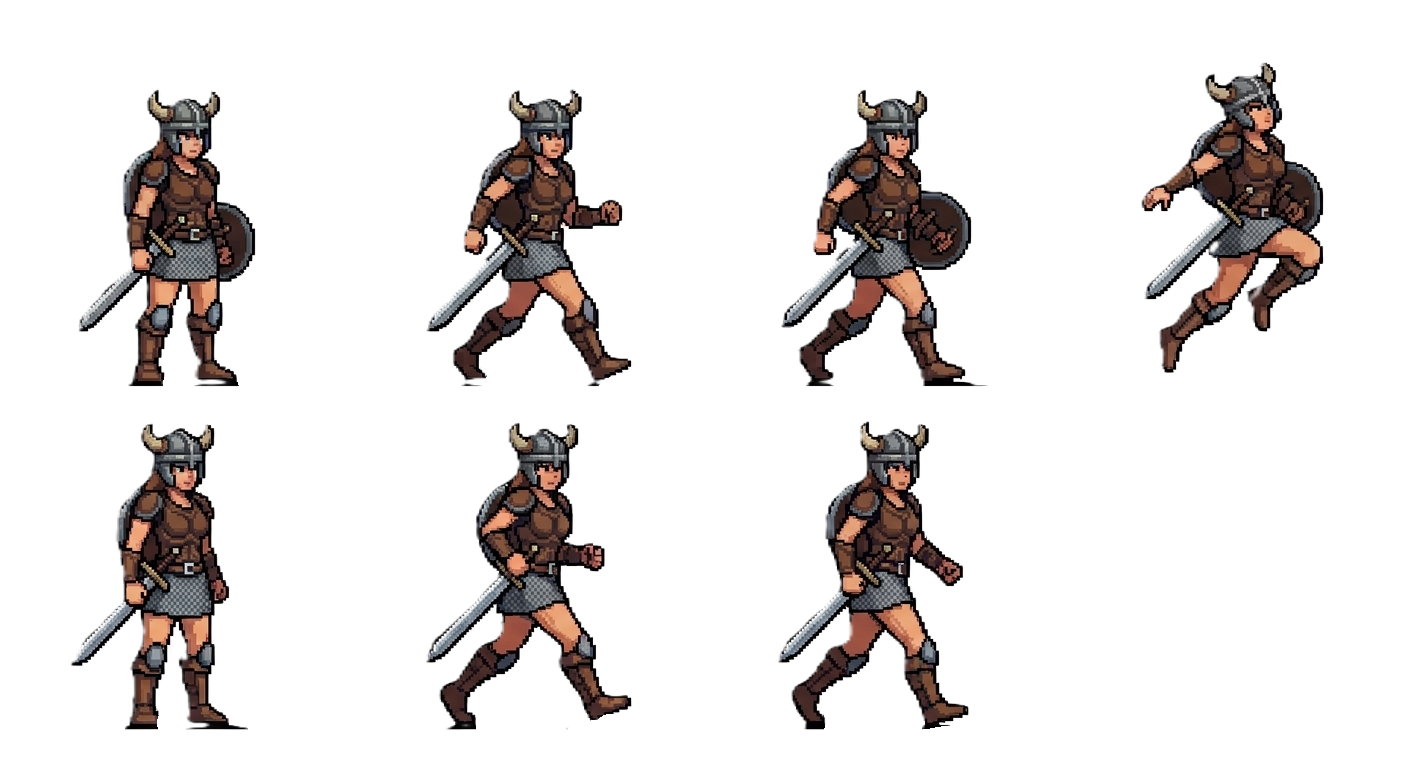
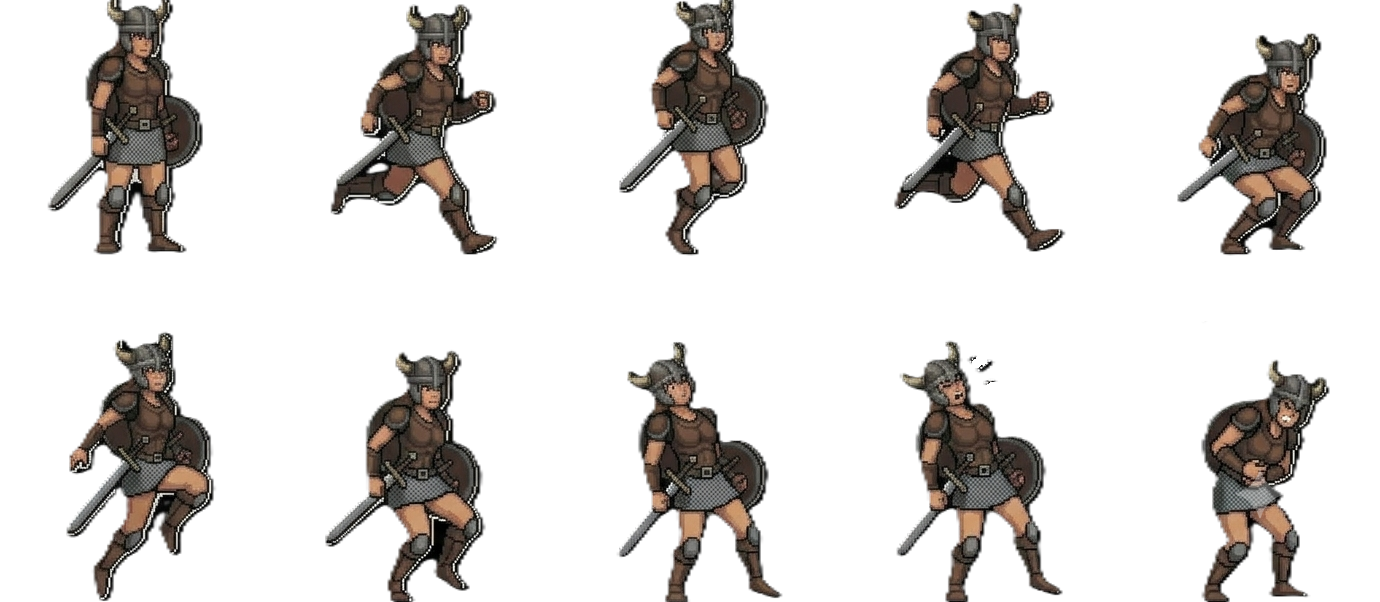
arrumando as sprites, e add efeito de dano

diff --git a/ava_jogo.py b/ava_jogo.py
@@ -112,36 +112,53 @@ def confBordas(objeto, rebater=False):
 
 #classe player
 class Player(arcade.Sprite):
+   # 3. Inicializa o Sprite com a primeira textura da lista (quadro 0)
     def __init__(self):
-        sheet = arcade.load_spritesheet("AnaGabriele.png")
-        quadros = sheet.get_texture_grid(
-            size=(332, 397),
-            columns=4,
-            count=8,
+        # 1. Carregar a folha de sprites
+        sheet_direita = arcade.load_spritesheet("Ana.png")
+
+        # 2. Extrair a grelha de texturas (10 quadros no total: 2 linhas, 5 colunas)
+        quadros = sheet_direita.get_texture_grid(
+            size=(199, 500),
+            columns=5,
+            count=10
         )
 
-        quadros_direita = quadros[:4]
-        quadros_esquerda = [frame.flip_left_right() for frame in quadros_direita]
+        # 3. Criar a lista de texturas invertidas para a esquerda
+        quadros_esquerda = []
+        for frame in quadros:
+            quadros_esquerda.append(frame.flip_left_right())
+        
+        # 4. Inicializar o sprite com a primeira textura (parado)
+        super().__init__(quadros[0], scale=0.3)
 
-        super().__init__(scale=0.2)
+        # 5. Mapeamento das poses para a direita e esquerda
+        self.texture_parado_d = quadros[0]
 
-        self.gravidade = GRAVIDADE
 
-        self.texture_parado_d = quadros_direita[0]
         self.texture_parado_e = quadros_esquerda[0]
-        self.texture_parado = self.texture_parado_d
+        self.passos_dano_d = [quadros[7], quadros[8], quadros[9]]
+        self.passos_dano_e = [quadros_esquerda[7], quadros_esquerda[8], quadros_esquerda[9]]
+        
+        self.tomando_dano: bool = False
+        self.tempo_dano: float = 0.0
+        # Passos (utiliza os quadros 1, 2 e 3 da primeira linha)
+        self.passos_direita = [quadros[1], quadros[2], quadros[3]]
+        self.passos_esquerda = [quadros_esquerda[1], quadros_esquerda[2], quadros_esquerda[3]]
 
-        self.passos_direita = quadros_direita[1:]
-        self.passos_esquerda = quadros_esquerda[1:]
+        # Pulo (utiliza o primeiro quadro da segunda linha, índice 5)
+        self.texture_pulo_d = quadros[5]
+        self.texture_pulo_e = quadros_esquerda[5]
 
-        self.texture_pulo_d = quadros_direita[-1]
-        self.texture_pulo_e = quadros_esquerda[-1]
-
+        # 6. Controladores de estado e animação
         self.quadro_atual: int = 0
         self.tempo_animacao: float = 0.0
         self.virado_para: str = "Direita"
         self.texture = self.texture_parado_d
-
+    def sofrer_dano(self):
+        self.tomando_dano = True
+        self.tempo_dano = 0.5  # Tempo em segundos que fica exibindo o dano
+        self.quadro_atual = 0
     def update(self, delta_time):
         if self.change_x > 0:
             self.virado_para = "Direita"
@@ -150,6 +167,7 @@ class Player(arcade.Sprite):
 
         confBordas(self, rebater=False)
 
+        # Se estiver a saltar (movimento vertical)
         if self.change_y != 0:
             if self.virado_para == "Direita":
                 self.texture = self.texture_pulo_d
@@ -157,17 +175,42 @@ class Player(arcade.Sprite):
                 self.texture = self.texture_pulo_e
             return
 
+        # Se estiver a andar horizontalmente
         if self.change_x != 0:
-            frames = self.passos_direita if self.virado_para == "Direita" else self.passos_esquerda
             self.tempo_animacao += delta_time
-            if self.tempo_animacao >= 0.12:
+            if self.tempo_animacao >= 0.1:
                 self.tempo_animacao = 0.0
-                self.quadro_atual = (self.quadro_atual + 1) % len(frames)
-            self.texture = frames[self.quadro_atual]
-            self.texture_parado = self.texture_parado_d if self.virado_para == "Direita" else self.texture_parado_e
+                self.quadro_atual = (self.quadro_atual + 1) % len(self.passos_direita)
+
+            if self.virado_para == "Direita":
+                self.texture = self.passos_direita[self.quadro_atual]
+            else:
+                self.texture = self.passos_esquerda[self.quadro_atual]
         else:
-            self.texture_parado = self.texture_parado_d if self.virado_para == "Direita" else self.texture_parado_e
-            self.texture = self.texture_parado
+            # Parado
+            self.quadro_atual = 0
+            self.tempo_animacao = 0.0
+            if self.virado_para == "Direita":
+                self.texture = self.texture_parado_d
+            else:
+                self.texture = self.texture_parado_e
+        if self.tomando_dano:
+            self.tempo_dano -= delta_time
+            if self.tempo_dano <= 0:
+                self.tomando_dano = False
+            
+            # Anima os quadros de dano rapidamente
+            self.tempo_animacao += delta_time
+            if self.tempo_animacao >= 0.1:
+                self.tempo_animacao = 0.0
+                self.quadro_atual = (self.quadro_atual + 1) % len(self.passos_dano_d)
+
+            if self.virado_para == "Direita":
+                self.texture = self.passos_dano_d[self.quadro_atual]
+            else:
+                self.texture = self.passos_dano_e[self.quadro_atual]
+            return        
+                
 
 
 class Moeda(arcade.Sprite):
@@ -718,6 +761,7 @@ class TelaJogo(arcade.View):
 
         for inimigo in npc_normal:
             self.pontuacao -= 1
+            self.jogador.sofrer_dano()  # <--- Ativa a animação de dano
             print("Colidiu com o professor!")
             self.mensagem = "TOCOU NO HOMEN PERDEU 1 PONTO!"
             self.tempo_mensagem = 1.5
@@ -725,12 +769,11 @@ class TelaJogo(arcade.View):
 
         for inimigo_especial in npc_especial:
             self.pontuacao -= 1
+            self.jogador.sofrer_dano()  # <--- Ativa a animação de dano
             print("Colidiu com o alien!")
-            
             self.mensagem = "TOCOU NO ET PERDEU 1 PONTO!"
             self.tempo_mensagem = 1.5
             self._reposicionar_sprite_seguro(inimigo_especial, distancia_minima=220)
-
         for bloco in moedas_direc:
             print("moeda colidiu")
             # Calcula penetração em cada lado do bloco
